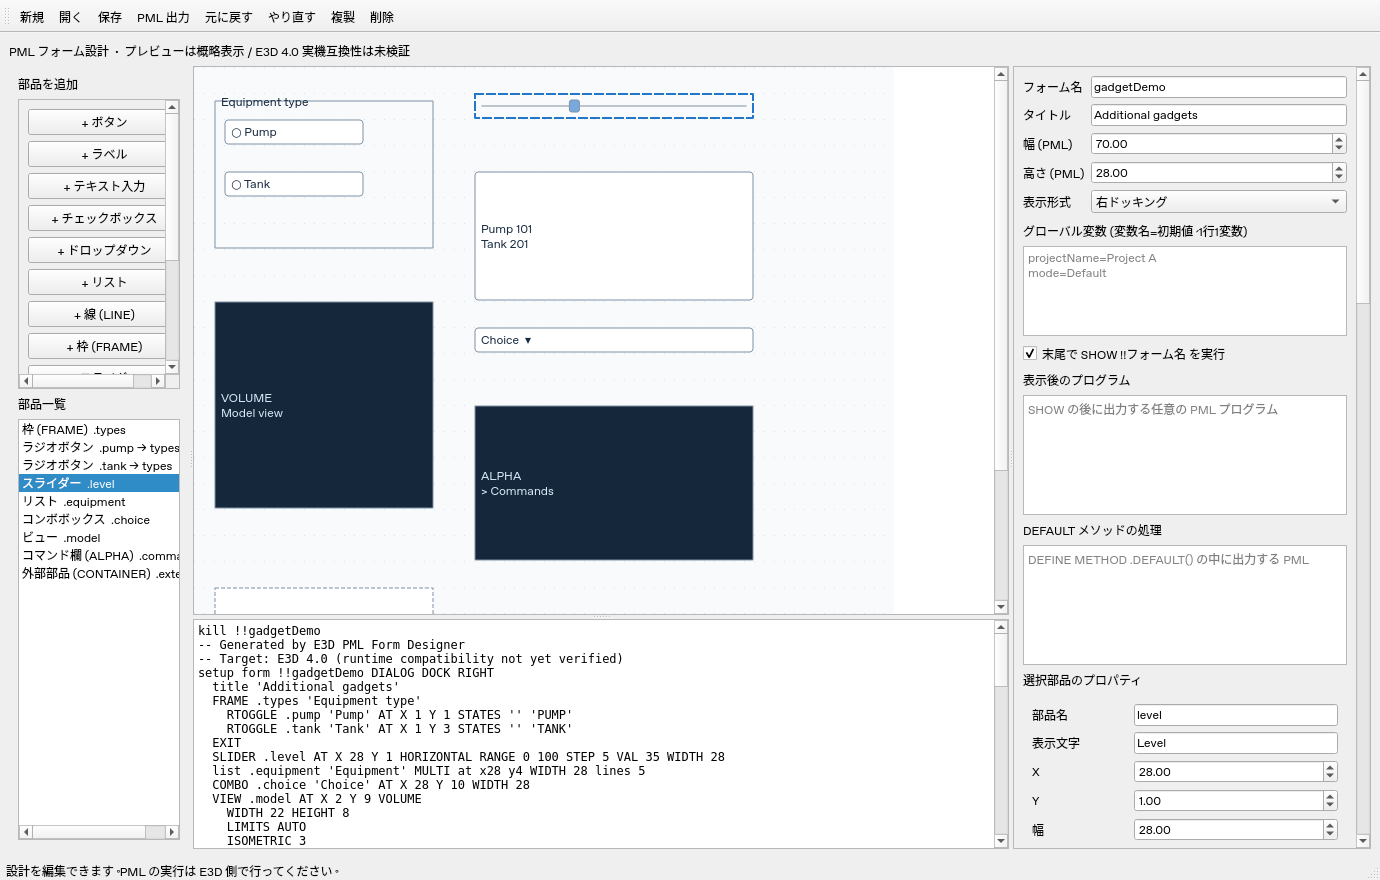
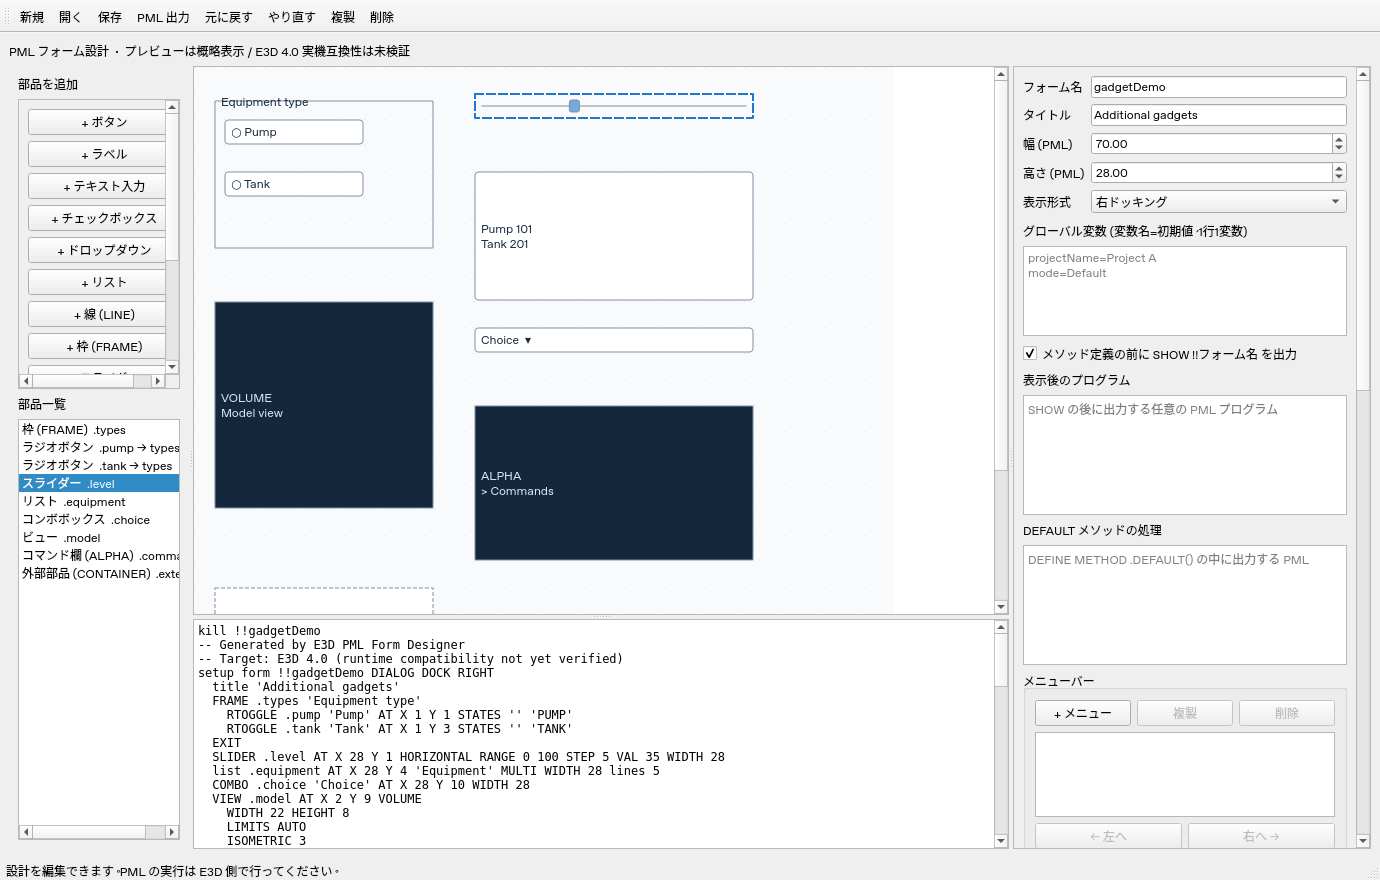
Correct LIST position and emit SHOW before method definitions

diff --git a/tests/test_designer.py b/tests/test_designer.py
@@ -33,6 +33,18 @@ class ModelTests(unittest.TestCase):
             changed=json.loads(json.dumps(raw));changed['form']['menus']=value
             with self.subTest(value=value),self.assertRaises(ValueError): Form.loads(json.dumps(changed))
 
+    def test_list_position_precedes_label_in_each_layout_mode(self):
+        base=Gadget(name='base',x=2,y=1)
+        listing=Gadget(kind='list',name='results',label='Results',x=4,y=5,width=20,height=3,callback='onSelect')
+        form=Form(gadgets=[base,listing])
+        self.assertIn("list .results AT X 4 Y 5 'Results' SINGLE WIDTH 20 lines 3 callback '!this.onSelect()'",form.pml())
+        listing.layout_mode='RELATIVE';listing.xref='base';listing.yref='base';listing.width_ref='base'
+        self.assertIn("list .results AT XMIN.base YMAX.base+0.5 'Results' SINGLE WIDTH.base lines 3",form.pml())
+        listing.layout_mode='AUTO'
+        line=next(line for line in form.pml().splitlines() if 'list .results' in line)
+        self.assertNotIn('AT ',line)
+        self.assertIn("'Results' SINGLE WIDTH.base lines 3",line)
+
     def test_slider_export_open_callback_and_bounds(self):
         slider=Gadget(kind='slider',name='level',slider_min=-10,slider_max=90,slider_step=5,slider_value=30,
                       callback='onLevel',body='  q var !event')
@@ -68,7 +80,7 @@ class ModelTests(unittest.TestCase):
                  for i,kind in enumerate(('list','combo'))]
         gadgets[0].selection_mode='MULTI';gadgets[0].height=3
         f=Form(gadgets=gadgets);pml=Form.loads(f.dumps()).pml()
-        self.assertIn("list .list1 'Run' MULTI",pml)
+        self.assertIn("list .list1 AT X 2 Y 0 'Run' MULTI",pml)
         self.assertIn('COMBO .combo1',pml)
         self.assertIn("!values[1] = '/P-1'",pml)
         for g in gadgets:
@@ -248,15 +260,17 @@ class ModelTests(unittest.TestCase):
         pml=Form.loads(f.dumps()).pml()
         self.assertIn("DEFINE METHOD .DEFAULT()\n$p 'Default'\nENDMETHOD",pml)
         self.assertEqual(pml.lower().count('define method .default()'),1)
-        self.assertLess(pml.index('DEFINE METHOD .DEFAULT()'),pml.index('SHOW !!'))
+        self.assertLess(pml.index('SHOW !!'),pml.index('define method .userform()'))
+        self.assertLess(pml.index('SHOW !!'),pml.index('DEFINE METHOD .DEFAULT()'))
         f.gadgets[0].body='different'
         with self.assertRaises(ValueError): f.pml()
 
-    def test_show_then_program_after_method_definitions(self):
+    def test_show_then_program_before_method_definitions(self):
         f=Form(after_show_code="$p 'Ready'",gadgets=[Gadget(callback='onRun')])
         pml=Form.loads(f.dumps()).pml()
-        self.assertTrue(pml.endswith("SHOW !!userform\n\n$p 'Ready'\n"))
-        self.assertLess(pml.index('define method .onRun()'),pml.index('SHOW !!userform'))
+        self.assertIn("exit\n\nSHOW !!userform\n\n$p 'Ready'\n\ndefine method .userform()",pml)
+        self.assertLess(pml.index('SHOW !!userform'),pml.index('define method .onRun()'))
+        self.assertEqual(pml.count('SHOW !!userform'),1)
         f.show_form=False
         self.assertNotIn('SHOW !!',f.pml())
         self.assertIn("$p 'Ready'",f.pml())
@@ -548,7 +562,7 @@ class GuiTests(unittest.TestCase):
 
     def test_after_show_program_editor(self):
         self.w.after_show.setPlainText("$p 'Ready'")
-        self.assertTrue(self.w.code.toPlainText().endswith("SHOW !!userform\n\n$p 'Ready'\n"))
+        self.assertIn("SHOW !!userform\n\n$p 'Ready'\n\ndefine method .userform()",self.w.code.toPlainText())
         self.w.show_form.setChecked(False)
         self.assertNotIn('SHOW !!userform', self.w.code.toPlainText())
         loaded=Form.loads(self.w.form.dumps())

diff --git a/e3d_designer/model.py b/e3d_designer/model.py
@@ -426,7 +426,7 @@ class Form:
                     line += '\n' + literal(display) + ' ' + literal(command, allow_expansion=True)
                 line += '\nEXIT'
             elif g.kind == 'list':
-                line = f'list .{g.name} {label} {g.selection_mode} {at} lines {max(1, round(g.height))}' + callback
+                line = f'list .{g.name} {position} {label} {g.selection_mode} {width_clause} lines {max(1, round(g.height))}' + callback
             elif g.kind == 'combo':
                 line = f'{g.combo_keyword} .{g.name} {label} {position} {width_clause}' + callback
             elif g.kind == 'slider':
@@ -464,7 +464,10 @@ class Form:
                 for child in self.ordered_children(g.name): render(child, depth + 1)
                 lines.append('  ' * depth + 'EXIT')
         for g in self.ordered_children(''): render(g, 1)
-        lines.extend(['exit', '', f'define method .{self.name}()'])
+        lines.extend(['exit', ''])
+        if self.show_form: lines += [f'SHOW !!{self.name}', '']
+        if self.after_show_code: lines += [self.after_show_code, '']
+        lines.append(f'define method .{self.name}()')
         for g in self.gadgets:
             if g.kind == 'text' and g.initial:
                 value = n(float(g.initial)) if g.value_type == 'REAL' else literal(g.initial)
@@ -492,6 +495,4 @@ class Form:
                 seen.add(g.callback.lower())
                 signature = '(!gad is GADGET, !event is STRING)' if g.kind == 'slider' else '()'
                 lines += [f'define method .{g.callback}{signature}', g.body or '  -- TODO: add PML logic', 'endmethod', '']
-        if self.show_form: lines += [f'SHOW !!{self.name}', '']
-        if self.after_show_code: lines += [self.after_show_code, '']
         return '\n'.join(lines)

diff --git a/e3d_designer/app.py b/e3d_designer/app.py
@@ -208,7 +208,7 @@ class Window(QMainWindow):
         self.variables.setPlaceholderText('projectName=Project A\nmode=Default')
         self.variables.textChanged.connect(self.update_variables)
         rl.addWidget(self.variables)
-        self.show_form = QCheckBox('末尾で SHOW !!フォーム名 を実行')
+        self.show_form = QCheckBox('メソッド定義の前に SHOW !!フォーム名 を出力')
         self.show_form.toggled.connect(self.update_form); rl.addWidget(self.show_form)
         self.after_show = QPlainTextEdit(); self.after_show.setMaximumHeight(120)
         self.after_show.setPlaceholderText('SHOW の後に出力する任意の PML プログラム')

diff --git a/README.md b/README.md
@@ -83,7 +83,7 @@ exit
 
 BACKGROUND は PARAGRAPH / BUTTON に対応します。空欄なら省略します。PARAGRAPH は省略時に背景色になります。色番号は非負整数として出力し、色の対応や有効範囲は E3D で確認してください。プレビューでは BG 番号を表示します。
 
-LINE は HORIZ / VERT を選択できます。表示文字は空文字に固定します。TEXT は STRING / REAL に対応します。TEXT / TOGGLE / OPTION の幅・高さや PARAGRAPH / BUTTON の高さなど、指定構文に含まれない寸法はプレビュー用です。LIST は公開実例の `list .name '表示名' at x値 y値 width 値 lines 行数` と、コンストラクタ内の `.dtext` を使用します。
+LINE は HORIZ / VERT を選択できます。表示文字は空文字に固定します。TEXT は STRING / REAL に対応します。TEXT / TOGGLE / OPTION の幅・高さや PARAGRAPH / BUTTON の高さなど、指定構文に含まれない寸法はプレビュー用です。LIST はユーザー指定の順序で `list .name AT X 値 Y 値 '表示名' SINGLE WIDTH 値 lines 行数` と出力し、コンストラクタ内の `.dtext` を使用します。相対配置でも AT は表示名の前です。AUTO では AT を省略します。
 
 OPTION は `_` 付きの名前を出力します。名前入力に `_` を付けても重複付与しません。選択肢のコマンドを空欄にすると空文字を出力します。コマンドの妥当性は E3D 側で確認してください。
 
@@ -103,7 +103,7 @@ DEFINE METHOD .DEFAULT()
 ENDMETHOD
 ```
 
-メソッド定義の後に `SHOW !!equipmenttool` を出力し、その後に「表示後のプログラム」を追加します。DEFAULT は定義しただけでは自動呼び出ししません。呼び出す場合は表示後プログラムに `!!equipmenttool.DEFAULT()` と記述してください。サンプル `examples/equipmenttool.json` はその設定を含みます。SHOW の出力はチェックボックスで無効にできます。
+フォーム定義の `exit` の後、すべての `DEFINE METHOD` より前に `SHOW !!equipmenttool` を出力します。「表示後のプログラム」は SHOW の直後、メソッド定義より前に追加します。DEFAULT は定義しただけでは自動呼び出ししません。呼び出す場合は表示後プログラムに `!!equipmenttool.DEFAULT()` と記述してください。サンプル `examples/equipmenttool.json` はその設定を含みます。SHOW の出力はチェックボックスで無効にできます。
 
 ## 検証と制約
 

diff --git a/docs/pml-examples-research.md b/docs/pml-examples-research.md
@@ -193,7 +193,7 @@ show !!demoform
 
 参照: [Forms](https://github.com/shivangKheradiya/AVEVA_PML/blob/2d3a87205cb80fbc68ca6b0518c9cf58dbd14285/10.%20Forms/README.md#basic-understanding-and-syntax)、[Form Concepts](https://github.com/nhdang117/PML.Learning/blob/57d55443a63f2cc7ec897c56ba1ae259f4b43bd1/docs/guide/forms-concepts-and-callbacks.md)。PMLLIB の探索パス設定とファイル名の一致が前提。
 
-**現エディタの確認事項:** ユーザー指示に合わせ、VAR / kill / フォーム定義 / メソッド / SHOW / 表示後プログラムを1つの `.pmlfrm` に出力している。命令列を実行する用途と PMLLIB のフォームとして自動ロードする用途では条件が異なる可能性がある。一体型を維持しつつ、定義専用 `.pmlfrm` と起動用 `.mac` を別に出す形式を検討する。今回、出力方式は変更していない。
+**現エディタの確認事項:** ユーザー指示に合わせ、VAR / kill / フォーム定義 / SHOW / 表示後プログラム / メソッドを1つの `.pmlfrm` に出力している。命令列を実行する用途と PMLLIB のフォームとして自動ロードする用途では条件が異なる可能性がある。一体型を維持しつつ、定義専用 `.pmlfrm` と起動用 `.mac` を別に出す形式を検討する。2026-10-05 のユーザー訂正に合わせ、SHOW は DEFINE METHOD より前に出力する。LIST の AT も表示名より前に出力する。
 
 ## 8. 拡張候補
 
